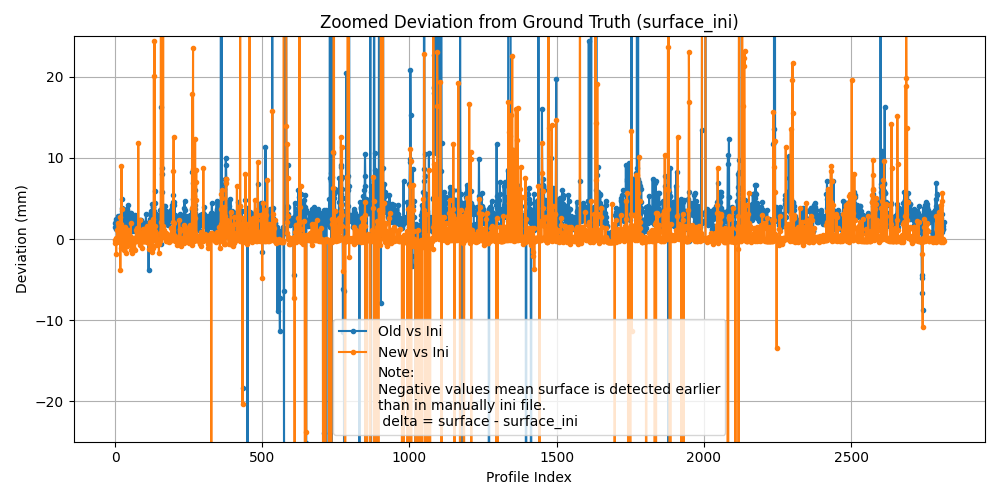
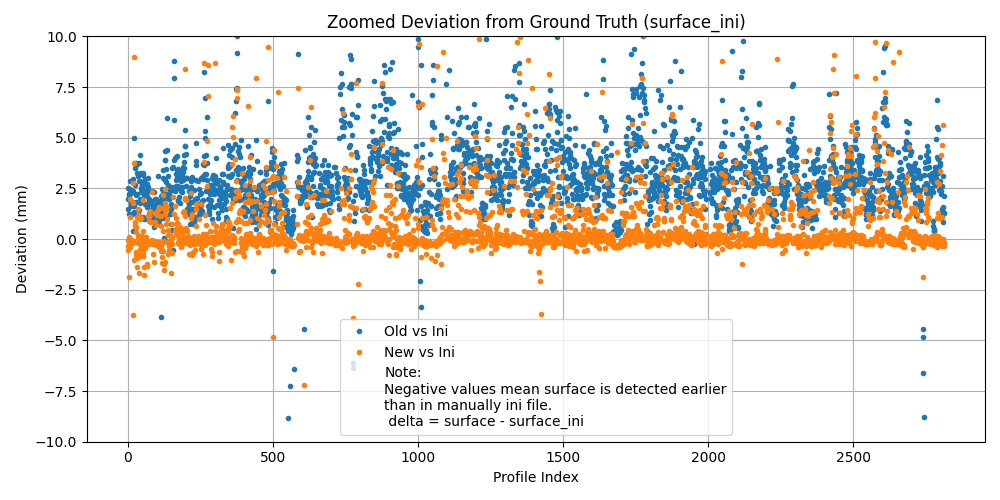
new graphic for zoomed delta

diff --git a/surfacedetection_tuning/tune_surfacedetection.py b/surfacedetection_tuning/tune_surfacedetection.py
@@ -69,14 +69,15 @@ def plot_delta_error(surface_ini_all, surface_old_all, surface_new_all, folder_p
 
         # Zoomed plotting deviations for better focus on small values
         plt.figure(figsize=(10, 5))
-        plt.plot(delta_old, label="Old vs Ini", marker='.')
-        plt.plot(delta_new, label="New vs Ini", marker='.')
+        plt.plot(delta_old, marker='.', linestyle='None', label="Old vs Ini")
+        plt.plot(delta_new, marker='.', linestyle='None', label="New vs Ini")
         # Dummy handle for text explanation
         plt.plot([], [], ' ',label="Note:\nNegative values mean surface is detected earlier\nthan in manually ini file.\n delta = surface - surface_ini")
         plt.xlabel("Profile Index")
         plt.ylabel("Deviation (mm)")
         plt.title("Zoomed Deviation from Ground Truth (surface_ini)")
-        plt.ylim(-25, 25) #zoomed range but looses some profiles with high error
+        #plt.ylim(-25, 25) #zoomed range but looses some profiles with high error
+        plt.ylim(-10, 10) #zoomed range for better visibility of small errors
         plt.legend()
         plt.grid()
         plt.tight_layout()
